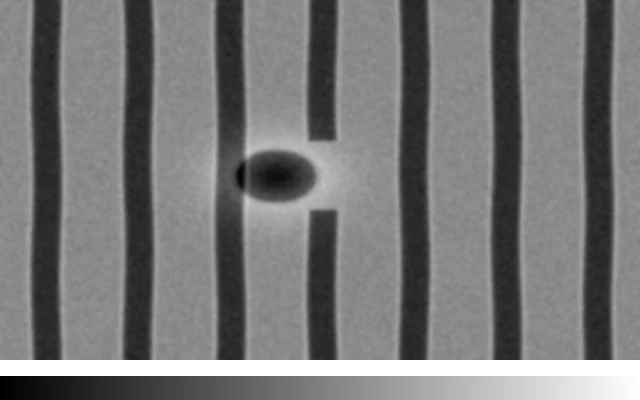
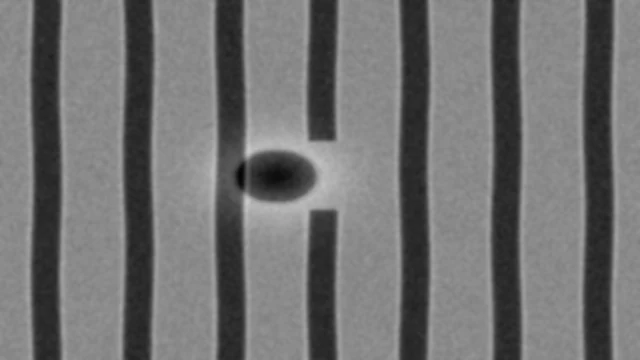
Show only the defect images in the colorization figure
Drop the color bars under both images (now 640x360) and the matching
alt-text phrases. Remove the one-off generator script from the repo.

Changed region(s): [[0.0, 0.8861, 1.0, 1.0], [0.3125, 0.3361, 0.5312, 0.6722], [0.2188, 0.7944, 0.25, 0.825]]

diff --git a/src/app/i18n/en.ts b/src/app/i18n/en.ts
@@ -403,17 +403,17 @@ export const EN: SiteContent = {
         },
         figure: {
           width: 640,
-          height: 400,
+          height: 360,
           images: [
             {
               src: 'stories/defect-gray.webp',
               label: 'Original grayscale (0–255)',
-              alt: 'Simulated e-Beam grayscale image: evenly spaced dark lines with a dark bridging defect between two of them, above a 0–255 gray ramp',
+              alt: 'Simulated e-Beam grayscale image: evenly spaced dark lines with a dark bridging defect between two of them',
             },
             {
               src: 'stories/defect-jet.webp',
               label: 'With the jet color scale',
-              alt: 'The same image with the jet color scale: blue lines on a yellow-green background, the defect deep blue with a red halo, above the matching jet color bar',
+              alt: 'The same image with the jet color scale: blue lines on a yellow-green background, the defect deep blue with a red halo',
             },
           ],
           note: 'Illustration only: a simulated image generated in code, not real ASML inspection data.',

diff --git a/src/app/i18n/zh.ts b/src/app/i18n/zh.ts
@@ -385,17 +385,17 @@ export const ZH: SiteContent = {
         },
         figure: {
           width: 640,
-          height: 400,
+          height: 360,
           images: [
             {
               src: 'stories/defect-gray.webp',
               label: '原始灰階影像（0–255）',
-              alt: '模擬的 e-Beam 灰階影像：等距的暗色直線之間有一處暗色橋接缺陷，下方是 0 到 255 的灰階色帶',
+              alt: '模擬的 e-Beam 灰階影像：等距的暗色直線之間有一處暗色橋接缺陷',
             },
             {
               src: 'stories/defect-jet.webp',
               label: '套用 jet 色階後',
-              alt: '同一張影像套用 jet 色階：直線呈藍色、背景呈黃綠色，缺陷中心為深藍、周圍的亮暈為紅色，下方是對應的 jet 色帶',
+              alt: '同一張影像套用 jet 色階：直線呈藍色、背景呈黃綠色，缺陷中心為深藍、周圍的亮暈為紅色',
             },
           ],
           note: '示意圖：以程式產生的模擬影像呈現，並非 ASML 的實際檢測資料。',

diff --git a/src/app/i18n/types.ts b/src/app/i18n/types.ts
@@ -67,7 +67,7 @@ export interface Story {
   jobs: JobKey[];
   /** 對話框中的完整過程 */
   steps: StorySteps;
-  /** 對話框中的前、後對照圖（public/stories/）；沒有時為 null */
+  /** 對話框中的前、後對照圖（public/stories/，模擬影像，非客戶資料）；沒有時為 null */
   figure: StoryFigure | null;
 }
 
